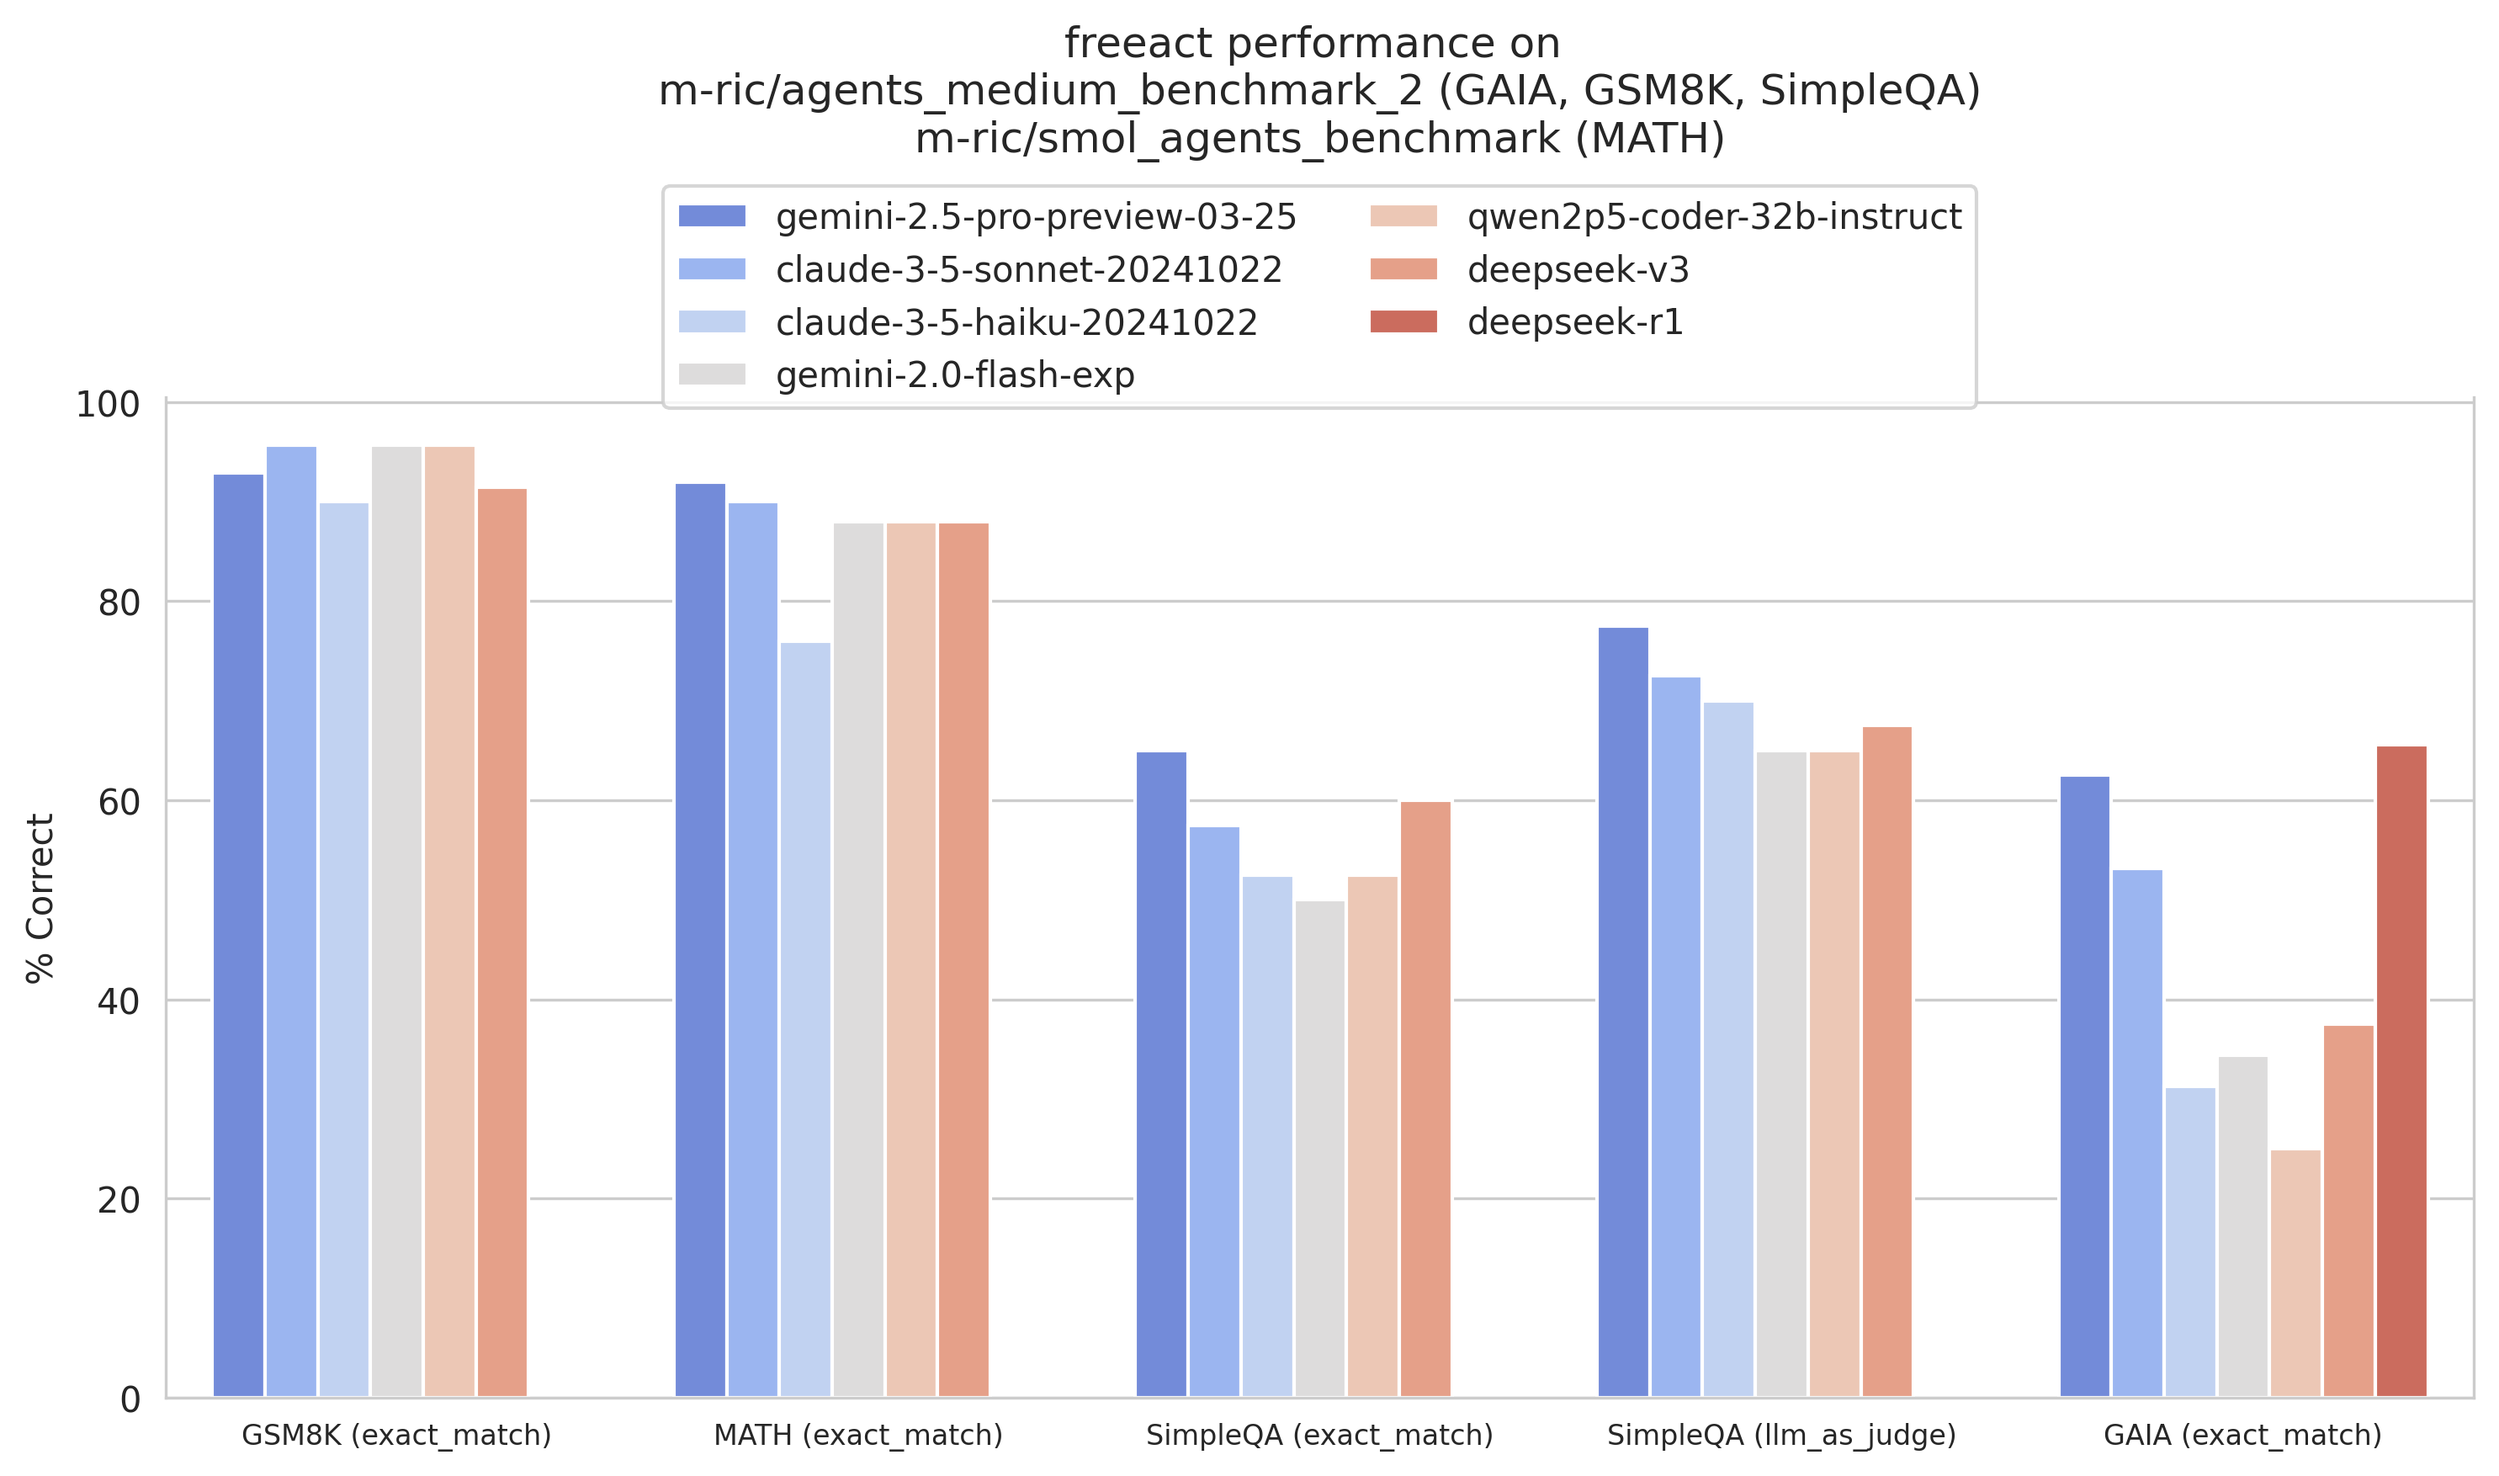
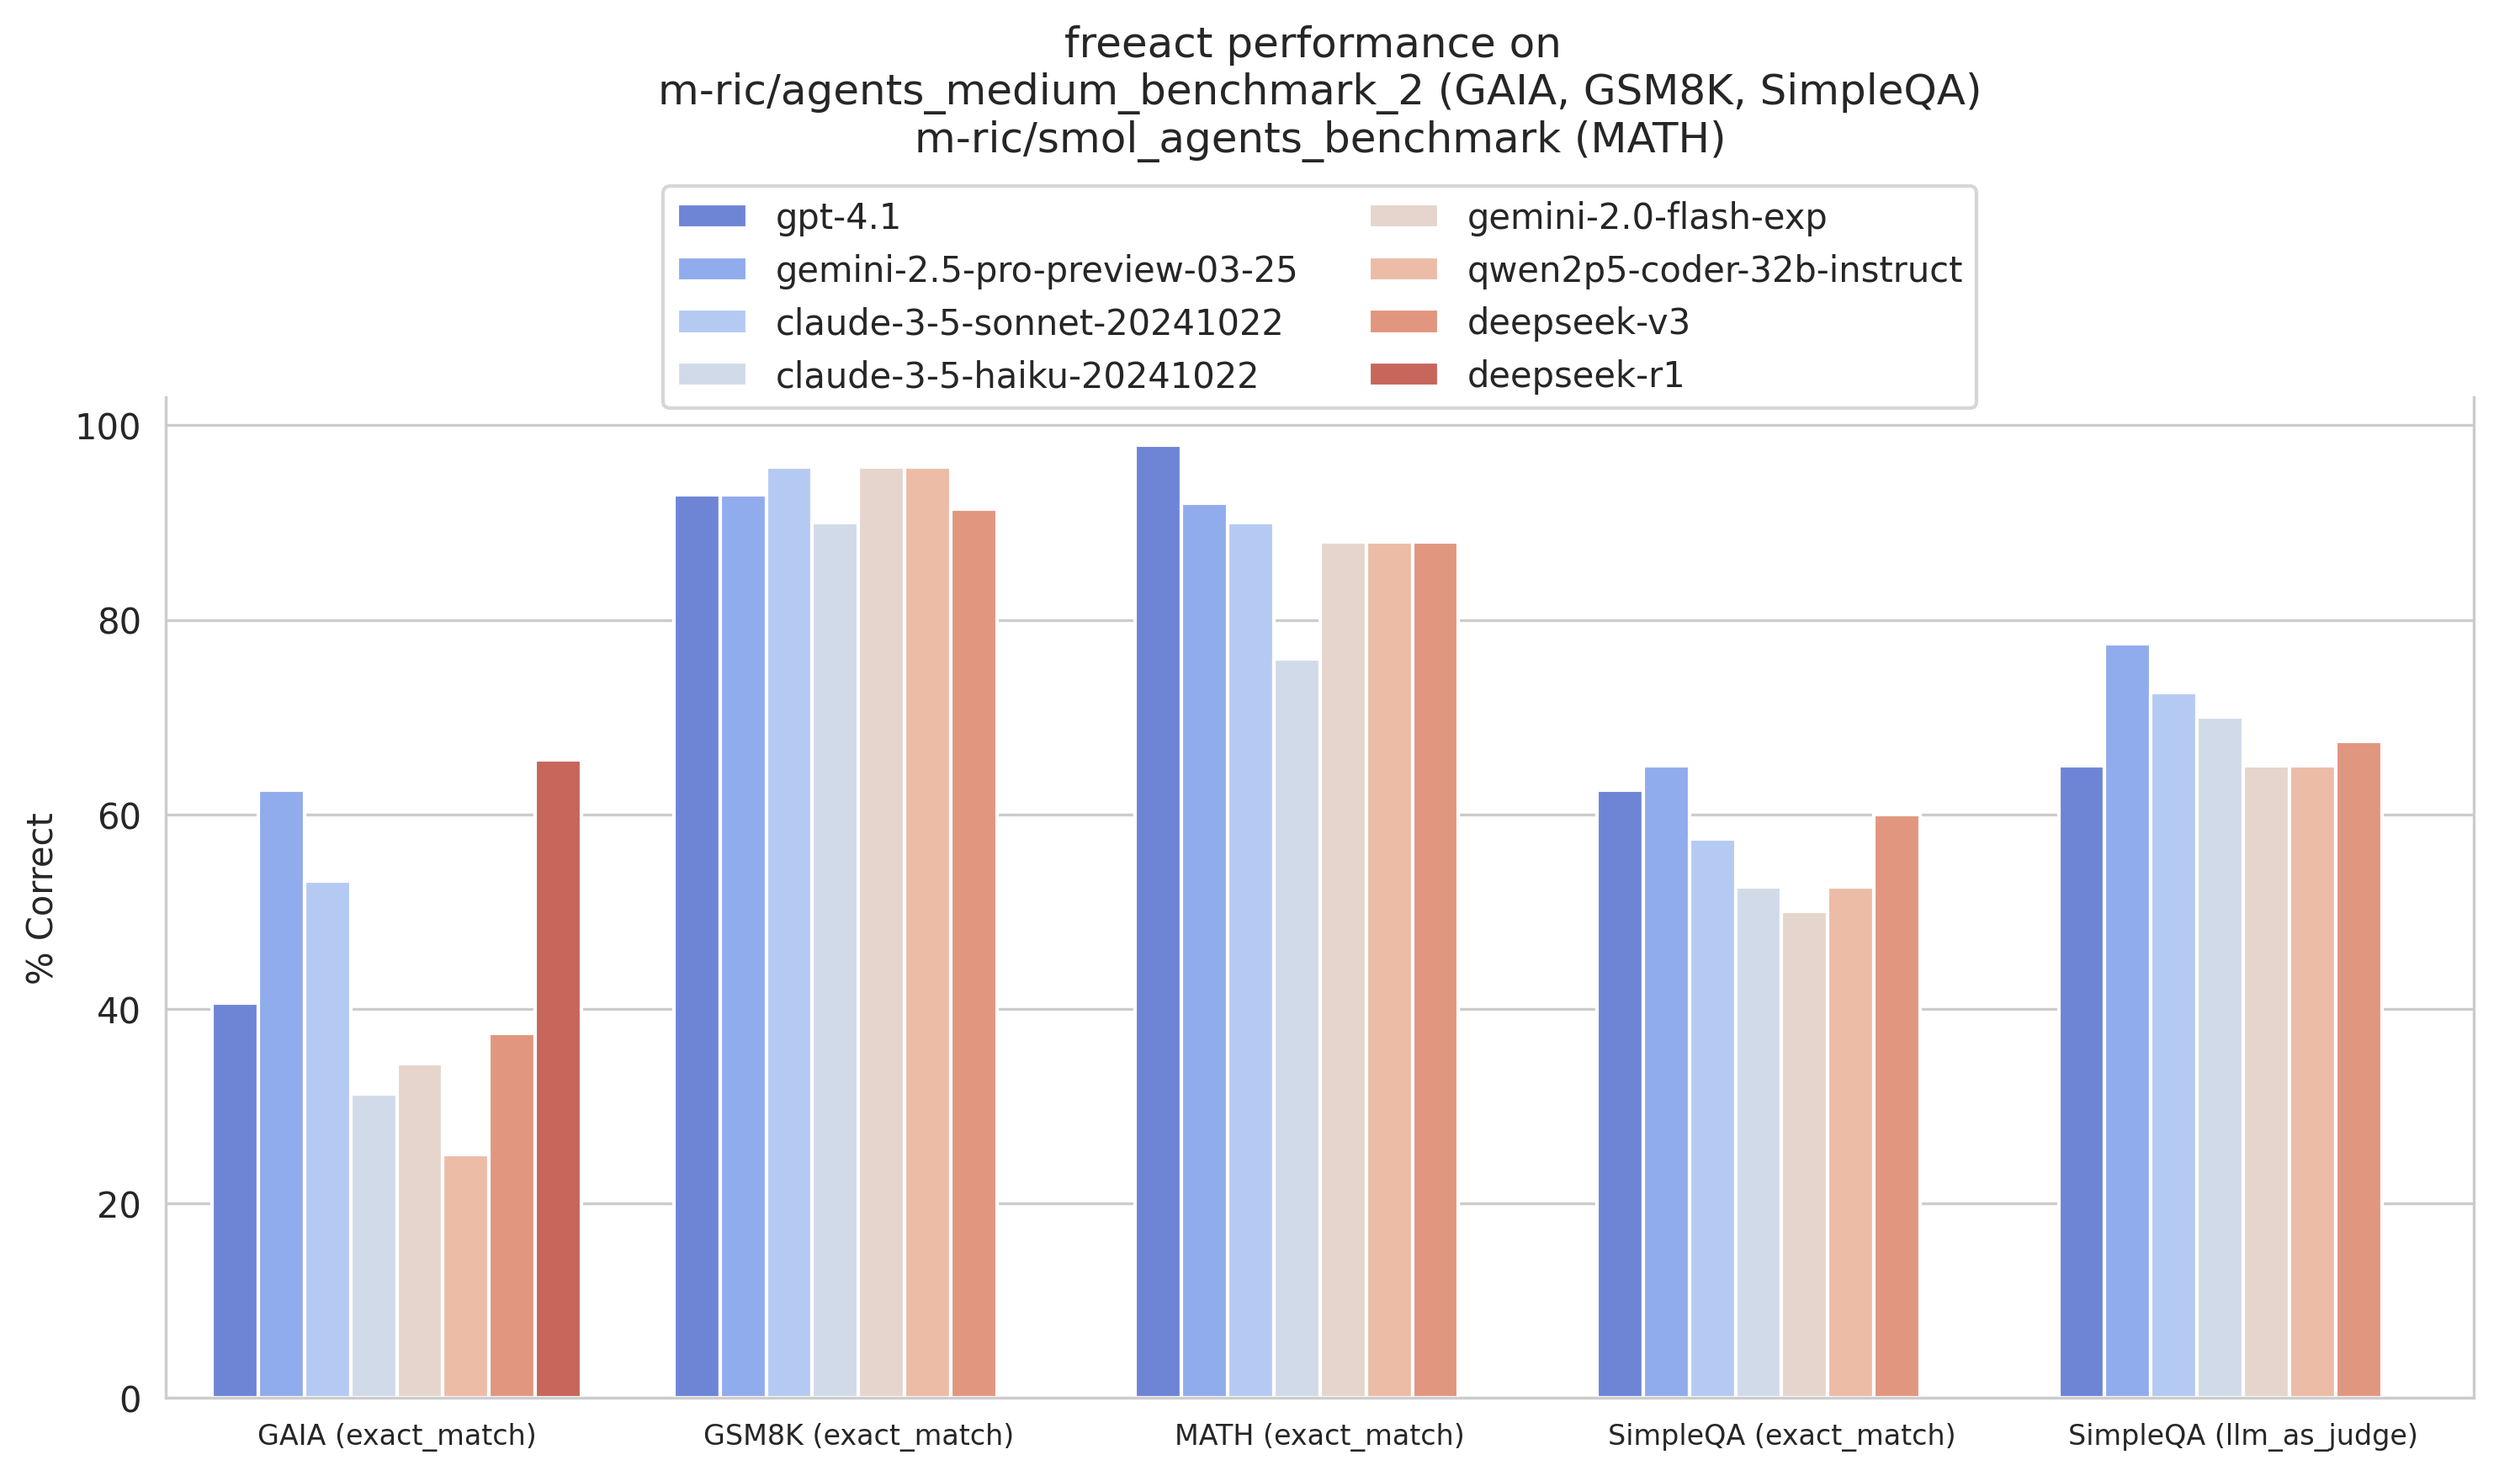
GPT-4.1 evaluation

diff --git a/freeact/model/litellm.py b/freeact/model/litellm.py
@@ -150,8 +150,11 @@ class LiteCodeActModel(CodeActModel):
         self.model_name = model_name
         self.completion_kwargs = kwargs
 
-        if system_template is None:
-            system_template = TOOL_USE_SYSTEM_TEMPLATE if use_executor_tool else CODE_TAG_SYSTEM_TEMPLATE
+        if use_executor_tool is None:
+            use_executor_tool = self.provider_name in ["anthropic", "openai"]
+
+        if use_editor_tool is None:
+            use_editor_tool = self.provider_name in ["anthropic", "openai"]
 
         if execution_output_template is None:
             execution_output_template = EXECUTION_OUTPUT_TEMPLATE
@@ -159,11 +162,8 @@ class LiteCodeActModel(CodeActModel):
         if execution_error_template is None:
             execution_error_template = EXECUTION_ERROR_TEMPLATE
 
-        if use_executor_tool is None:
-            use_executor_tool = self.provider_name in ["anthropic", "openai"]
-
-        if use_editor_tool is None:
-            use_editor_tool = self.provider_name in ["anthropic", "openai"]
+        if system_template is None:
+            system_template = TOOL_USE_SYSTEM_TEMPLATE if use_executor_tool else CODE_TAG_SYSTEM_TEMPLATE
 
         self.execution_output_template = execution_output_template
         self.execution_error_template = execution_error_template

diff --git a/examples/quickstart.py b/examples/quickstart.py
@@ -19,7 +19,8 @@ async def main():
 
         async with env.code_executor() as executor:
             model = LiteCodeActModel(
-                model_name="o4-mini",
+                # model_name="o4-mini",
+                model_name="gpt-4.1",
                 # model_name="anthropic/claude-3-7-sonnet-20250219",
                 # model_name="anthropic/claude-3-5-sonnet-20241022",
                 # model_name="gemini/gemini-2.5-flash-preview-04-17",
@@ -31,9 +32,9 @@ async def main():
                 skill_sources=skill_sources,
                 # base_url="http://192.168.94.60:11434",
                 # prompt_caching=False,
-                reasoning_effort="low",
-                # use_executor_tool=False,
-                # use_editor_tool=False,
+                # reasoning_effort="low",
+                # use_executor_tool=True,
+                # use_editor_tool=True,
                 # tool_use=False,
                 max_tokens=8192,
             )

diff --git a/evaluation/evaluate.py b/evaluation/evaluate.py
@@ -228,6 +228,9 @@ async def run_agent(
         api_key = os.getenv("ANTHROPIC_API_KEY")
         system_template = TOOL_USE_SYSTEM_TEMPLATE
         reasoning_effort = "low"
+    elif model_name == "gpt-4.1":
+        api_key = os.getenv("OPENAI_API_KEY")
+        system_template = TOOL_USE_SYSTEM_TEMPLATE
     elif model_name in ["gemini-2.0-flash-exp", "gemini-2.0-flash"]:
         model_name = f"gemini/{model_name}"
         api_key = os.getenv("GOOGLE_API_KEY")

diff --git a/evaluation/README.md b/evaluation/README.md
@@ -2,6 +2,7 @@
 
 We evaluated `freeact` with the following models:
 
+- GPT-4.1 (`gpt-4.1`)
 - Gemini 2.5 Pro Preview (`gemini-2.5-pro-preview-03-25`, `reasoning_effort=low`)
 - Claude 3.5 Sonnet (`claude-3-5-sonnet-20241022`)
 - Claude 3.5 Haiku (`claude-3-5-haiku-20241022`)
@@ -21,7 +22,8 @@ Both datasets were created by the [smolagents](https://github.com/huggingface/sm
 
 | model                                                   | GAIA (exact_match)  | GSM8K (exact_match) | MATH (exact_match) | SimpleQA (exact_match) | SimpleQA (llm_as_judge) |
 |:--------------------------------------------------------|--------------------:|--------------------:|-------------------:|-----------------------:|------------------------:|
-| gemini-2.5-pro-preview-03-25<br/>(reasoning_effort=low) |                62.5 |                92.9 |           **92.0** |               **65.0** |                **77.5** |
+| gpt-4.1                                                 |                40.6 |                92.9 |           **98.0** |                  62.5  |                   65.0  |
+| gemini-2.5-pro-preview-03-25<br/>(reasoning_effort=low) |                62.5 |                92.9 |               92.0 |               **65.0** |                **77.5** |
 | claude-3-5-sonnet-20241022                              |                53.1 |            **95.7** |               90.0 |                  57.5  |                   72.5  |
 | claude-3-5-haiku-20241022                               |                31.2 |                90.0 |               76.0 |                  52.5  |                   70.0  |
 | gemini-2.0-flash-exp                                    |                34.4 |            **95.7** |               88.0 |                  50.0  |                   65.0  |
@@ -77,6 +79,11 @@ Then run the evaluation script for each model:
 
 ```bash
 python evaluation/evaluate.py \
+    --model-name gpt-4.1 \
+    --run-id gpt-4.1 \
+    --debug
+
+python evaluation/evaluate.py \
     --model-name gemini-2.5-pro-preview-03-25 \
     --run-id gemini-2.5-pro-preview-03-25 \
     --debug
@@ -120,6 +127,7 @@ Score the results:
 
 ```bash
 python evaluation/score.py \
+  --evaluation-dir output/evaluation/gpt-4.1 \
   --evaluation-dir output/evaluation/gemini-2.5-pro-preview-03-25 \
   --evaluation-dir output/evaluation/claude-3-5-sonnet-20241022 \
   --evaluation-dir output/evaluation/claude-3-5-haiku-20241022 \
